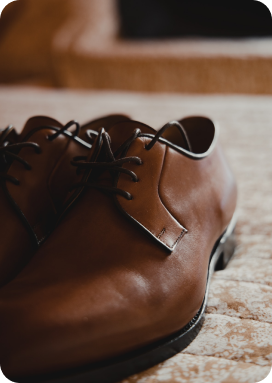
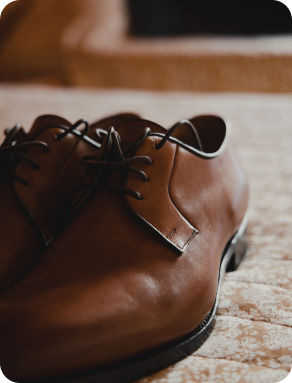
Fix Session, Service Pages, Navbar, Routes, and Authenticate

diff --git a/WAD-Shoe-Cleaning-Wijaya-Makmur/public/css/main.css b/WAD-Shoe-Cleaning-Wijaya-Makmur/public/css/main.css
@@ -221,8 +221,12 @@ body {
 }
 /* Footer */
 
-
 /*FOR SERVICES*/
+
+#img-service {
+    width: 242px;
+    height: 353px;
+}
 
 #ServiceTitle {
     font-size: 30px;
@@ -235,12 +239,12 @@ body {
     color: #504a4a;
 }
 
-#ServiceDesc { 
+#ServiceDesc {
     font-size: 15px;
     color: #504a4a;
 }
 
-#buttonservice{
+#buttonservice {
     font-size: 15px;
     background-color: #8f5bd8;
 }

diff --git a/WAD-Shoe-Cleaning-Wijaya-Makmur/resources/views/pages/user/service.blade.php b/WAD-Shoe-Cleaning-Wijaya-Makmur/resources/views/pages/user/service.blade.php
@@ -4,90 +4,77 @@
 
 <section>
     <div class="container pt-5 pb-5">
-
-<div class="row justify-content-start">
-{{-- STANDART CLEAN --}}
-  <div class="col-3">
-      <img src="images/StandartClean.png" alt="">
-  </div>
-  <div class="col-3">
-    <h4 id='ServiceTitle'>Standart Clean</h4>
-    <h4 class="pt-2" id='ServicePrice'>Rp.30.000</h4>
-    <p class="pt-2" id='ServiceDesc'>Pembersihan bagian atas dan tengah. 
-        Bagus untuk sepatu kets dengan sedikit kotoran dari penggunaan normal sehari-hari. 
-        Pilihan ini tidak menghilangkan noda atau kotoran membandel yang dalam.</p>
-    <div class="pt-5">
-    <div class="pt-5"></div>
-    <a class="btn text-light" id="buttonservice">
-        Pesan Sekarang
-    </a>
-    </div>
-  </div>
-
-{{-- DEEP CLEAN --}}
-  <div class="col-3">
-    <img src="images/DeepClean.png" alt="">
-  </div>
-  <div class="col-3">
-    <h4 id='ServiceTitle'>Deep Clean</h4>
-    <h4 id='ServicePrice' class="pt-2">Rp.40.000</h4>
-    <p class="pt-2" id='ServiceDesc'>Pembersihan mendalam pada bagian atas, tengah, dan tali. 
-        Opsi ini menargetkan noda dan kotoran yang membandel.</p>
-        <div class="pt-5">
-            <div class="pt-5">
-                <div class="pt-5">  
+        <div class="row justify-content-start">
+            <!-- Standart Celan -->
+            <div class="col-3">
+                <img id="img-service" src="images/StandartClean.png" alt="">
             </div>
-            <a class="btn text-light" id="buttonservice">
-                Pesan Sekarang
-            </a>
-            </div>
-    </div>
-</div>
-    </div>
-
-    <div class="container pb-5">
-<div class="row justify-content-start pt-5">
-    {{-- PREMIUM CLEAN --}}
-    <div class="col-3">
-        <img src="images/PremiumClean.png" alt="">
-    </div>
-    <div class="col-3">
-        <h4 id='ServiceTitle'>Premium Clean</h4>
-        <h4 class="pt-2" id='ServicePrice'>Rp.45.000</h4>
-        <p class="pt-2" id='ServiceDesc'>Clean Standard untuk sneakers dengan bahan premium seperti suede dan Primeknit. 
-            Juga untuk fashion sneakers seperti Gucci, Balenciaga, DLL..</p>
-            <div class="pt-5"> </div>
-            <div class="pt-5"></div>
-                <div class="pt-5">
-                <a class="btn text-light" id="buttonservice">
-                    Pesan Sekarang
-                </a>
+            <div id="col-height" class="col-3">
+                <h4 id='ServiceTitle'>Standart Clean</h4>
+                <h4 class="pt-2" id='ServicePrice'>Rp.30.000</h4>
+                <p class="pt-2" id='ServiceDesc'>Pembersihan bagian atas dan tengah.
+                    Bagus untuk sepatu kets dengan sedikit kotoran dari penggunaan normal sehari-hari.
+                    Pilihan ini tidak menghilangkan noda atau kotoran membandel yang dalam.</p>
+                <div class="pt-3">
+                    <a class="btn text-light" id="buttonservice">
+                        Pesan Sekarang
+                    </a>
                 </div>
-    </div>
-
-  
-    {{-- WEEKEND CLEAN --}}
-    <div class="col-3">
-      <img src="images/WeekendClean.png" alt="">
-    </div>
-  
-    <div class="col-3">
-        <h4 id='ServiceTitle'>Weekend Clean</h4>
-        <h4 class="pt-2" id='ServicePrice'>Rp.50.000</h4>
-        <p class="pt-2" id='ServiceDesc'>Perhatian cermat terhadap detail, deep clean, sol dalam, sol dalam, pelapis, pewangi.</p>
-        <div class="pt-5"> </div>
-        <div class="pt-5"></div>
-        <div class="pt-4"></div>
-            <div class="pt-5">
-            <a class="btn text-light" id="buttonservice">
-                Pesan Sekarang
-            </a>
             </div>
+
+            <!-- Deep Clean -->
+            <div class="col-3">
+                <img id="img-service" src="images/DeepClean.png" alt="">
+            </div>
+            <div class="col-3">
+                <h4 id='ServiceTitle'>Deep Clean</h4>
+                <h4 id='ServicePrice' class="pt-2">Rp.40.000</h4>
+                <p class="pt-2" id='ServiceDesc'>Pembersihan mendalam pada bagian atas, tengah, dan tali.
+                    Opsi ini menargetkan noda dan kotoran yang membandel.</p>
+                <div class="pt-3">
+                    <a class="btn text-light" id="buttonservice">
+                        Pesan Sekarang
+                    </a>
+                </div>
+            </div>
+        </div>
+
+        <div class="container pt-5 pb-5">
+            <div class="row justify-content-start">
+                <!-- Premium Clean -->
+                <div class="col-3">
+                    <img id="img-service" src="images/PremiumClean.png" alt="">
+                </div>
+                <div class="col-3">
+                    <h4 id='ServiceTitle'>Premium Clean</h4>
+                    <h4 class="pt-2" id='ServicePrice'>Rp.45.000</h4>
+                    <p class="pt-2" id='ServiceDesc'>Clean Standard untuk sneakers dengan bahan premium seperti suede
+                        dan Primeknit. Juga untuk fashion sneakers seperti Gucci, Balenciaga, DLL..</p>
+                    <div class="pt-3">
+                        <a class="btn text-light" id="buttonservice">
+                            Pesan Sekarang
+                        </a>
+                    </div>
+                </div>
+
+                <!-- Weekend Celan -->
+                <div class="col-3">
+                    <img id="img-service" src="images/WeekendClean.png" alt="">
+                </div>
+                <div class="col-3">
+                    <h4 id='ServiceTitle'>Weekend Clean</h4>
+                    <h4 class="pt-2" id='ServicePrice'>Rp.50.000</h4>
+                    <p class="pt-2" id='ServiceDesc'>Perhatian cermat terhadap detail, deep clean, sol dalam, sol dalam,
+                        pelapis, pewangi.</p>
+                    <div class="pt-3">
+                        <a class="btn text-light" id="buttonservice">
+                            Pesan Sekarang
+                        </a>
+                    </div>
+                </div>
+            </div>
+        </div>
     </div>
-  
-  </div>
-</div>
-</div>
 </section>
 
 

diff --git a/WAD-Shoe-Cleaning-Wijaya-Makmur/resources/views/layouts/main/navbar.blade.php b/WAD-Shoe-Cleaning-Wijaya-Makmur/resources/views/layouts/main/navbar.blade.php
@@ -1,7 +1,7 @@
 <!-- Nav -->
 <nav class="navbar navbar-expand-lg" style="background-color: #8F5BD8;">
     <div class="container">
-        <a id="shoecleaning-text" class="navbar-brand" href="">SHOE CLEANING</a>
+        <a id="shoecleaning-text" class="navbar-brand" href="/Home">SHOE CLEANING</a>
         <button class="navbar-toggler" type="button" data-bs-toggle="collapse" data-bs-target="#navbarSupportedContent"
             aria-controls="navbarSupportedContent" aria-expanded="false" aria-label="Toggle navigation">
             <span class="navbar-toggler-icon"></span>
@@ -10,16 +10,18 @@
             <ul class="navbar-nav me-auto mb-2 mb-lg-0 justify-content-around">
                 <span>&nbsp;&nbsp;&nbsp;&nbsp;&nbsp;&nbsp;&nbsp;&nbsp;&nbsp;&nbsp;&nbsp;&nbsp;&nbsp;&nbsp;&nbsp;&nbsp;&nbsp;&nbsp;&nbsp;&nbsp;&nbsp;&nbsp;&nbsp;&nbsp;&nbsp;&nbsp;&nbsp;&nbsp;&nbsp;&nbsp;&nbsp;&nbsp;&nbsp;</span>
                 <li class="nav-item">
-                    <a id="nav-item" class="nav-link" href="#home">HOME</a>
+                    <a id="nav-item" class="nav-link" href="{{ ($pages === 'Home') ? '#home' : '/Home' }}">HOME</a>
                 </li>
                 <li class="nav-item">
-                    <a id="nav-item" class="nav-link" href="#service">SERVICES</a>
+                    <a id="nav-item" class="nav-link"
+                        href="{{ ($pages === 'Home') ? '#service' : '/Home' }}">SERVICES</a>
                 </li>
                 <li class="nav-item">
-                    <a id="nav-item" class="nav-link" href="#about">ABOUT</a>
+                    <a id="nav-item" class="nav-link" href="{{ ($pages === 'Home') ? '#about' : '/Home' }}">ABOUT</a>
                 </li>
                 <li class="nav-item">
-                    <a id="nav-item" class="nav-link" href="#testi">TESTIMONIAL</a>
+                    <a id="nav-item" class="nav-link"
+                        href="{{ ($pages === 'Home') ? '#testi' : '/Home' }}">TESTIMONIAL</a>
                 </li>
 
                 @auth

diff --git a/WAD-Shoe-Cleaning-Wijaya-Makmur/app/Http/Controllers/MainController.php b/WAD-Shoe-Cleaning-Wijaya-Makmur/app/Http/Controllers/MainController.php
@@ -9,12 +9,12 @@ class MainController extends Controller
     // FOR USER
     public function index()
     {
-        return view('pages.home');
+        return view('pages.home', ['pages' => 'Home']);
     }
 
     public function service()
     {
-        return view('pages.user.service');
+        return view('pages.user.service', ['pages' => 'Service']);
     }
 
     public function indexAdmin()

diff --git a/WAD-Shoe-Cleaning-Wijaya-Makmur/app/Http/Controllers/LoginController.php b/WAD-Shoe-Cleaning-Wijaya-Makmur/app/Http/Controllers/LoginController.php
@@ -9,7 +9,7 @@ class LoginController extends Controller
 {
     public function index()
     {
-        return view('pages.login&register.login');
+        return view('pages.login&register.login', ['pages' => 'Home']);
     }
 
     public function authenticate(Request $request)

diff --git a/WAD-Shoe-Cleaning-Wijaya-Makmur/app/Http/Middleware/Authenticate.php b/WAD-Shoe-Cleaning-Wijaya-Makmur/app/Http/Middleware/Authenticate.php
@@ -15,7 +15,7 @@ class Authenticate extends Middleware
     protected function redirectTo($request)
     {
         if (! $request->expectsJson()) {
-            return route('login');
+            return route('login-user');
         }
     }
 }
